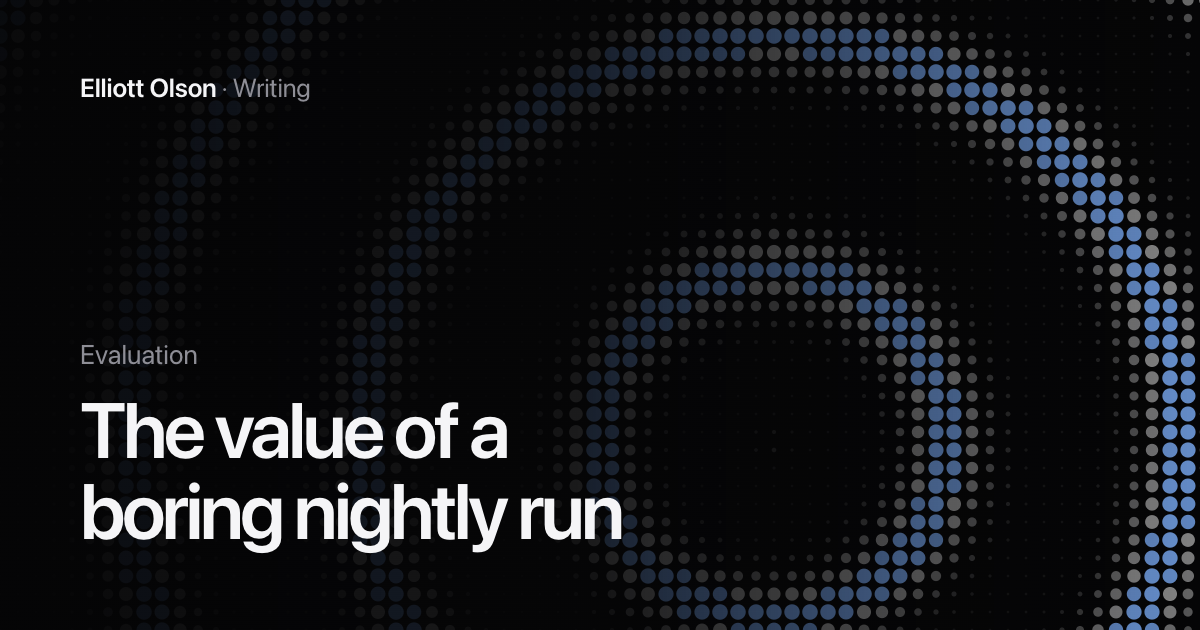
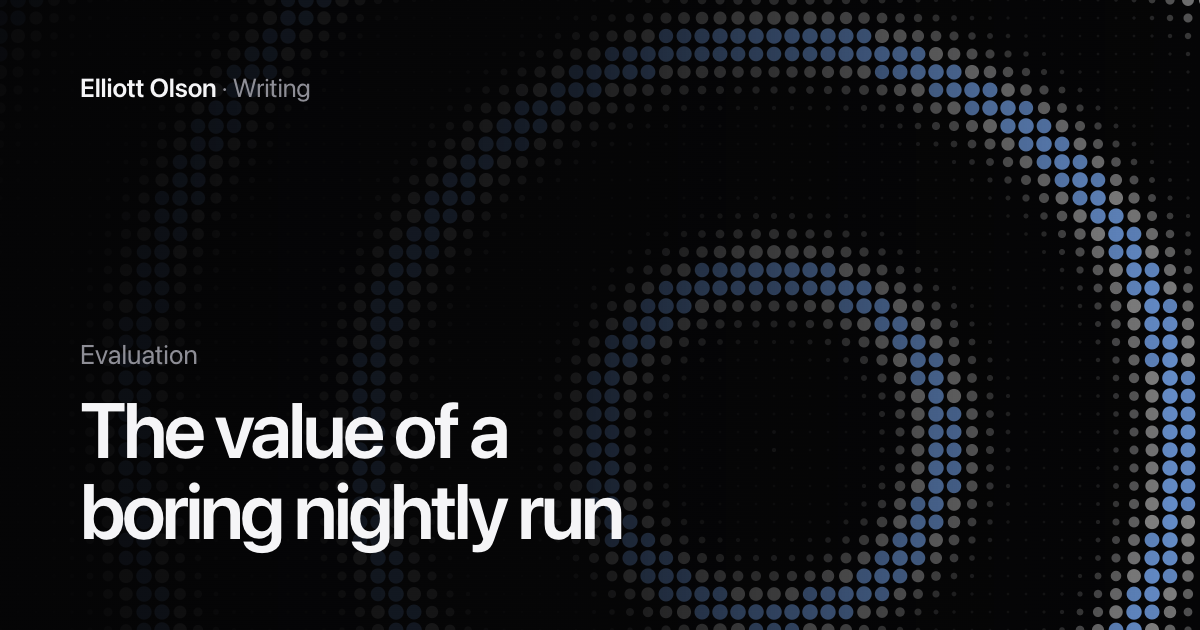
Polish the Writing pages
Add a byline at the end of each article, a contents rail that fills as the
article is read, a cover that eases into place, a Latest flag on the featured
post, and small typographic refinements. Soften the blocky cover pattern.

diff --git a/site/writing/index.html b/site/writing/index.html
@@ -59,6 +59,7 @@
         <a class="post post--featured reveal" href="/writing/evaluation-scores/" data-topic="evaluation">
           <div class="cover" style="view-transition-name: cover-evaluation-scores"><canvas data-cover="waves" data-seed="evaluation-scores" aria-hidden="true"></canvas></div>
           <div class="post__text">
+            <p class="post__flag">Latest</p>
             <p class="post__meta"><span>Evaluation</span><span>Oct 6, 2026</span><span>2 min read</span></p>
             <h2 class="post__title">What an evaluation score really tells you</h2>
             <p class="post__excerpt">A single number hides a lot of decisions. Some notes on what goes into one, and what to ask before trusting it.</p>
@@ -75,6 +76,7 @@
         <a class="post reveal" href="/writing/where-milliseconds-go/" data-topic="performance">
           <div class="cover" style="view-transition-name: cover-where-milliseconds-go"><canvas data-cover="beams" data-seed="where-milliseconds-go" aria-hidden="true"></canvas></div>
           <div class="post__text">
+            
             <p class="post__meta"><span>Performance</span><span>Sep 18, 2026</span><span>1 min read</span></p>
             <h2 class="post__title">Where the milliseconds go</h2>
             <p class="post__excerpt">Latency rarely has one cause. A way of breaking a request down until the slow part has nowhere left to hide.</p>
@@ -84,6 +86,7 @@
         <a class="post reveal" href="/writing/contract-between-systems/" data-topic="architecture">
           <div class="cover" style="view-transition-name: cover-contract-between-systems"><canvas data-cover="cells" data-seed="contract-between-systems" aria-hidden="true"></canvas></div>
           <div class="post__text">
+            
             <p class="post__meta"><span>Architecture</span><span>Aug 27, 2026</span><span>1 min read</span></p>
             <h2 class="post__title">A contract between systems</h2>
             <p class="post__excerpt">Why a small, boring interface is often the thing that lets everything around it change quickly.</p>
@@ -93,6 +96,7 @@
         <a class="post reveal" href="/writing/boring-nightly-run/" data-topic="evaluation">
           <div class="cover" style="view-transition-name: cover-boring-nightly-run"><canvas data-cover="rings" data-seed="boring-nightly-run" aria-hidden="true"></canvas></div>
           <div class="post__text">
+            
             <p class="post__meta"><span>Evaluation</span><span>Jul 30, 2026</span><span>1 min read</span></p>
             <h2 class="post__title">The value of a boring nightly run</h2>
             <p class="post__excerpt">The most useful automation is the kind nobody thinks about until the morning it catches something.</p>
@@ -102,6 +106,7 @@
         <a class="post reveal" href="/writing/intern-to-senior/" data-topic="career">
           <div class="cover" style="view-transition-name: cover-intern-to-senior"><canvas data-cover="waves" data-seed="intern-to-senior" aria-hidden="true"></canvas></div>
           <div class="post__text">
+            
             <p class="post__meta"><span>Career</span><span>Jun 12, 2026</span><span>1 min read</span></p>
             <h2 class="post__title">What changed between intern and senior</h2>
             <p class="post__excerpt">Looking back at six years of the same job title getting longer, and what actually shifted along the way.</p>

diff --git a/site/assets/writing.css b/site/assets/writing.css
@@ -82,6 +82,16 @@
 .post:hover .cover { border-color: var(--line-strong); }
 .post:hover .cover canvas { transform: scale(1.05); }
 
+.post__flag {
+  display: inline-block;
+  margin-bottom: 14px;
+  padding: 4px 11px;
+  border: 1px solid rgba(var(--glow), 0.45);
+  border-radius: 999px;
+  font-size: 12px;
+  line-height: 1.4;
+}
+
 .post__meta {
   display: flex;
   flex-wrap: wrap;
@@ -236,6 +246,12 @@
   margin-top: clamp(40px, 6vw, 72px);
   aspect-ratio: 21 / 9;
 }
+/* The cover eases into place as the article opens */
+.article-cover canvas { animation: cover-in 1.8s var(--ease) both; }
+
+@keyframes cover-in {
+  from { transform: scale(1.07); }
+}
 
 /* Article body */
 
@@ -257,7 +273,19 @@
   margin-bottom: 14px;
   color: var(--muted);
 }
-.toc ol { border-left: 1px solid var(--line); }
+.toc ol {
+  position: relative;
+  border-left: 1px solid var(--line);
+}
+/* The rail fills from the top as the article is read */
+.toc__fill {
+  position: absolute;
+  top: 0;
+  left: -1px;
+  width: 1px;
+  background: var(--fg);
+  transition: height 0.2s linear;
+}
 .toc a {
   display: block;
   margin-left: -1px;
@@ -268,10 +296,7 @@
   transition: color 0.3s var(--ease), border-color 0.3s var(--ease);
 }
 .toc a:hover { color: var(--fg); }
-.toc a.is-active {
-  border-left-color: var(--fg);
-  color: var(--fg);
-}
+.toc a.is-active { color: var(--fg); }
 
 .prose {
   --series-1: #3987e5;
@@ -288,6 +313,7 @@
 }
 .prose > * + * { margin-top: 1.35em; }
 .prose p, .prose li { color: color-mix(in srgb, var(--fg) 82%, transparent); }
+.prose p { text-wrap: pretty; }
 
 .prose > p.lead {
   font-size: 1.22em;
@@ -363,6 +389,7 @@
   border-left: 2px solid rgb(var(--glow));
 }
 .prose blockquote p {
+  hanging-punctuation: first;
   font-size: 1.45em;
   font-weight: 600;
   line-height: 1.25;
@@ -446,10 +473,14 @@
 }
 
 .prose hr {
-  height: 1px;
-  margin-block: 2.6em;
+  margin-block: 2.4em;
   border: 0;
-  background: var(--line);
+  text-align: center;
+}
+.prose hr::before {
+  content: "· · ·";
+  letter-spacing: 0.5em;
+  color: var(--muted);
 }
 
 /* Notes: a numbered reference that opens its note in place */
@@ -810,17 +841,37 @@ html:has(.lightbox[open]) { overflow: hidden; }
 
 /* Article end */
 
-.article-end {
+.byline {
   display: flex;
   flex-wrap: wrap;
   align-items: center;
   justify-content: space-between;
-  gap: 16px;
+  gap: 16px 24px;
   margin-top: clamp(56px, 8vw, 96px);
-  padding-top: 24px;
+  padding-top: 28px;
   border-top: 1px solid var(--line);
+}
+.prose .byline__name {
+  font-size: 17px;
+  font-weight: 600;
+  line-height: 1.3;
+  letter-spacing: -0.015em;
+  color: var(--fg);
+}
+.prose .byline__meta {
+  margin-top: 3px;
   font-size: 14px;
+  line-height: 1.4;
   color: var(--muted);
+}
+.byline__actions {
+  display: flex;
+  align-items: center;
+  gap: 20px;
+}
+.prose .byline .link {
+  font-size: 14px;
+  text-decoration: none;
 }
 
 .next {
@@ -875,6 +926,8 @@ html:has(.lightbox[open]) { overflow: hidden; }
   .cover canvas, .post__more span, .article-head__back span { transition: none; }
   .post:hover .cover canvas { transform: none; }
   .chart__line, .chart__bar, .chart__end { transition: none; }
+  .article-cover canvas { animation: none; }
+  .toc__fill { transition: none; }
   .lightbox[open] { animation: none; }
   .diagram .edge { animation: none; }
 }

diff --git a/site/assets/writing.js b/site/assets/writing.js
@@ -28,7 +28,7 @@
     beams: (u, v, x, t) => 0.5 + 0.5 * Math.sin((x * 1.3 + v) * 8 - t * 1.5) * Math.cos(v * 2.2 + t * 0.3),
     cells: (u, v, x, t, s, cx, cy) => {
       const h = noise(Math.floor(cx / 3), Math.floor(cy / 3), s);
-      return 0.5 + 0.5 * Math.sin(h * 6.283 + t * (0.6 + h * 1.4));
+      return 0.42 + 0.44 * Math.sin(h * 6.283 + t * (0.6 + h * 1.4));
     },
   };
 
@@ -140,14 +140,32 @@
       toc.append(item);
       return link;
     });
+    const fill = document.createElement('span');
+    fill.className = 'toc__fill';
+    toc.append(fill);
+    const prose = document.querySelector('.prose');
+
     let ticking = false;
     const update = () => {
       ticking = false;
-      let current = 0;
+      const line = window.innerHeight * 0.3;
+      let current = -1;
       headings.forEach((heading, i) => {
-        if (heading.getBoundingClientRect().top <= window.innerHeight * 0.3) current = i;
+        if (heading.getBoundingClientRect().top <= line) current = i;
       });
-      links.forEach((link, i) => link.classList.toggle('is-active', i === current));
+      links.forEach((link, i) => link.classList.toggle('is-active', i === Math.max(0, current)));
+
+      // Fill the rail down to the reader's place: through finished sections, and partway through the current one
+      let filled = 0;
+      if (current >= 0) {
+        const start = headings[current].getBoundingClientRect().top;
+        const end = current + 1 < headings.length
+          ? headings[current + 1].getBoundingClientRect().top
+          : prose.getBoundingClientRect().bottom;
+        const item = links[current].parentElement;
+        filled = item.offsetTop + Math.min(1, Math.max(0, (line - start) / (end - start))) * item.offsetHeight;
+      }
+      fill.style.height = `${filled}px`;
     };
     window.addEventListener('scroll', () => {
       if (!ticking) {

diff --git a/site/writing/evaluation-scores/index.html b/site/writing/evaluation-scores/index.html
@@ -163,10 +163,16 @@
 <p>The last section brings the post back to the question it opened with and says plainly what the answer was.</p>
 <p>It ends without a summary of everything above. A reader who got this far already knows what the post said.</p>
 
-          <div class="article-end">
-            <span>Published Oct 6, 2026</span>
-            <button class="ghost-button" type="button" data-copy="link">Copy link</button>
-          </div>
+          <footer class="byline">
+            <div>
+              <p class="byline__name">Elliott Olson</p>
+              <p class="byline__meta">Senior Software Engineer, Amazon AGI · Published Oct 6, 2026</p>
+            </div>
+            <div class="byline__actions">
+              <a class="link" href="https://www.linkedin.com/in/elliottolson" target="_blank" rel="noopener" data-goatcounter-click="click-linkedin">LinkedIn <span aria-hidden="true">↗</span></a>
+              <button class="ghost-button" type="button" data-copy="link">Copy link</button>
+            </div>
+          </footer>
         </div>
 
         <nav class="toc" aria-label="Contents">

diff --git a/site/writing/boring-nightly-run/index.html b/site/writing/boring-nightly-run/index.html
@@ -63,10 +63,16 @@
 <h2 id="the-second-section">The second section<a class="anchor" href="#the-second-section" aria-label="Copy a link to this section">#</a></h2>
 <p>The closing section is short. It says what the post concluded and stops.</p>
 
-          <div class="article-end">
-            <span>Published Jul 30, 2026</span>
-            <button class="ghost-button" type="button" data-copy="link">Copy link</button>
-          </div>
+          <footer class="byline">
+            <div>
+              <p class="byline__name">Elliott Olson</p>
+              <p class="byline__meta">Senior Software Engineer, Amazon AGI · Published Jul 30, 2026</p>
+            </div>
+            <div class="byline__actions">
+              <a class="link" href="https://www.linkedin.com/in/elliottolson" target="_blank" rel="noopener" data-goatcounter-click="click-linkedin">LinkedIn <span aria-hidden="true">↗</span></a>
+              <button class="ghost-button" type="button" data-copy="link">Copy link</button>
+            </div>
+          </footer>
         </div>
 
         <nav class="toc" aria-label="Contents">

diff --git a/site/writing/contract-between-systems/index.html b/site/writing/contract-between-systems/index.html
@@ -63,10 +63,16 @@
 <h2 id="the-second-section">The second section<a class="anchor" href="#the-second-section" aria-label="Copy a link to this section">#</a></h2>
 <p>The closing section is short. It says what the post concluded and stops.</p>
 
-          <div class="article-end">
-            <span>Published Aug 27, 2026</span>
-            <button class="ghost-button" type="button" data-copy="link">Copy link</button>
-          </div>
+          <footer class="byline">
+            <div>
+              <p class="byline__name">Elliott Olson</p>
+              <p class="byline__meta">Senior Software Engineer, Amazon AGI · Published Aug 27, 2026</p>
+            </div>
+            <div class="byline__actions">
+              <a class="link" href="https://www.linkedin.com/in/elliottolson" target="_blank" rel="noopener" data-goatcounter-click="click-linkedin">LinkedIn <span aria-hidden="true">↗</span></a>
+              <button class="ghost-button" type="button" data-copy="link">Copy link</button>
+            </div>
+          </footer>
         </div>
 
         <nav class="toc" aria-label="Contents">

diff --git a/site/writing/intern-to-senior/index.html b/site/writing/intern-to-senior/index.html
@@ -63,10 +63,16 @@
 <h2 id="the-second-section">The second section<a class="anchor" href="#the-second-section" aria-label="Copy a link to this section">#</a></h2>
 <p>The closing section is short. It says what the post concluded and stops.</p>
 
-          <div class="article-end">
-            <span>Published Jun 12, 2026</span>
-            <button class="ghost-button" type="button" data-copy="link">Copy link</button>
-          </div>
+          <footer class="byline">
+            <div>
+              <p class="byline__name">Elliott Olson</p>
+              <p class="byline__meta">Senior Software Engineer, Amazon AGI · Published Jun 12, 2026</p>
+            </div>
+            <div class="byline__actions">
+              <a class="link" href="https://www.linkedin.com/in/elliottolson" target="_blank" rel="noopener" data-goatcounter-click="click-linkedin">LinkedIn <span aria-hidden="true">↗</span></a>
+              <button class="ghost-button" type="button" data-copy="link">Copy link</button>
+            </div>
+          </footer>
         </div>
 
         <nav class="toc" aria-label="Contents">

diff --git a/site/writing/where-milliseconds-go/index.html b/site/writing/where-milliseconds-go/index.html
@@ -63,10 +63,16 @@
 <h2 id="the-second-section">The second section<a class="anchor" href="#the-second-section" aria-label="Copy a link to this section">#</a></h2>
 <p>The closing section is short. It says what the post concluded and stops.</p>
 
-          <div class="article-end">
-            <span>Published Sep 18, 2026</span>
-            <button class="ghost-button" type="button" data-copy="link">Copy link</button>
-          </div>
+          <footer class="byline">
+            <div>
+              <p class="byline__name">Elliott Olson</p>
+              <p class="byline__meta">Senior Software Engineer, Amazon AGI · Published Sep 18, 2026</p>
+            </div>
+            <div class="byline__actions">
+              <a class="link" href="https://www.linkedin.com/in/elliottolson" target="_blank" rel="noopener" data-goatcounter-click="click-linkedin">LinkedIn <span aria-hidden="true">↗</span></a>
+              <button class="ghost-button" type="button" data-copy="link">Copy link</button>
+            </div>
+          </footer>
         </div>
 
         <nav class="toc" aria-label="Contents">

diff --git a/scripts/build_writing.py b/scripts/build_writing.py
@@ -270,6 +270,7 @@ def card(post, featured=False):
     return f"""        <a class="{classes}" href="/writing/{post["slug"]}/" data-topic="{html.escape(post["topic"].lower(), quote=True)}">
           {cover(post)}
           <div class="post__text">
+            {'<p class="post__flag">Latest</p>' if featured else ""}
             {meta_line(post)}
             <h2 class="post__title">{html.escape(post["title"])}</h2>
             <p class="post__excerpt">{html.escape(post["summary"])}</p>
@@ -350,10 +351,16 @@ def article_page(post, following):
         <div class="prose">
 {post["body"]}
 
-          <div class="article-end">
-            <span>Published {format_date(post["date"])}</span>
-            <button class="ghost-button" type="button" data-copy="link">Copy link</button>
-          </div>
+          <footer class="byline">
+            <div>
+              <p class="byline__name">Elliott Olson</p>
+              <p class="byline__meta">Senior Software Engineer, Amazon AGI · Published {format_date(post["date"])}</p>
+            </div>
+            <div class="byline__actions">
+              <a class="link" href="https://www.linkedin.com/in/elliottolson" target="_blank" rel="noopener" data-goatcounter-click="click-linkedin">LinkedIn <span aria-hidden="true">↗</span></a>
+              <button class="ghost-button" type="button" data-copy="link">Copy link</button>
+            </div>
+          </footer>
         </div>
 
         <nav class="toc" aria-label="Contents">
